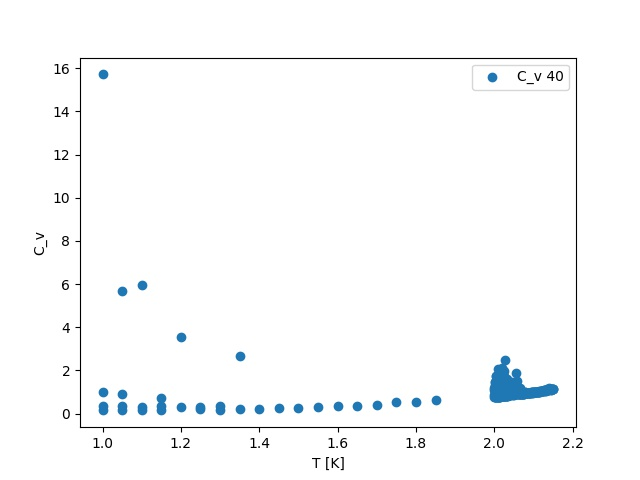
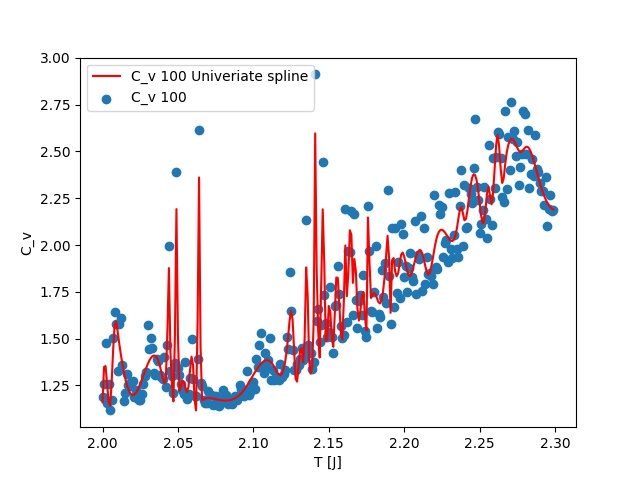
Made data set

diff --git a/Project4/CodeBase/tcfind.py b/Project4/CodeBase/tcfind.py
@@ -8,7 +8,6 @@ xi40 = []
 t = []
 dataL40.readline()
 for line in dataL40:
-        print(line)
         x1 = float(line.split()[0])
         x2 = float(line.split()[1])
         x3 = float(line.split()[2])
@@ -17,10 +16,11 @@ for line in dataL40:
         t.append(x3)
 dataL40.close()
 
-"""
+
 dataL60 = open("MCL60.txt", "r")
 cv60=[]
 xi60 = []
+t6 = []
 
 
 for line in dataL60:
@@ -29,14 +29,14 @@ for line in dataL60:
         x3 = float(line.split()[2])
         cv60.append(x1)
         xi60.append(x2)
+        t6.append(x3)
 dataL60.close()
-
 
 
 dataL80 = open("MCL80.txt", "r")
 cv80=[]
 xi80 = []
-
+t8 = []
 
 for line in dataL80:
         x1 = float(line.split()[0])
@@ -44,6 +44,7 @@ for line in dataL80:
         x3 = float(line.split()[2])
         cv80.append(x1)
         xi80.append(x2)
+        t8.append(x3)
 dataL80.close()
 
 
@@ -51,6 +52,7 @@ dataL80.close()
 dataL100 = open("MCL100.txt", "r")
 cv100=[]
 xi100 = []
+t1 = []
 
 
 for line in dataL100:
@@ -59,46 +61,90 @@ for line in dataL100:
         x3 = float(line.split()[2])
         cv100.append(x1)
         xi100.append(x2)
+        t1.append(x3)
 dataL100.close()
+
+t = np.asarray(t)
+cv40 = np.asarray(cv40)
+
+#Cv40
+tindex = np.argsort(t)
+cv40 = cv40[tindex]
+t = t[tindex]
+
+spl40 = UnivariateSpline(t, cv40)
+spl40.set_smoothing_factor(0.65)
+
+#Cv60
+t6 = np.asarray(t6)
+cv60 = np.asarray(cv60)
+t6index = np.argsort(t6)
+cv60 = cv60[t6index]
+t6 = t6[t6index]
+
+spl60 = UnivariateSpline(t6, cv60)
+spl60.set_smoothing_factor(2)
+
+#Cv80
+t8 = np.asarray(t8)
+cv80 = np.asarray(cv80)
+t8index = np.argsort(t8)
+cv80 = cv80[t8index]
+t8 = t8[t8index]
+
+spl80 = UnivariateSpline(t8, cv80)
+spl80.set_smoothing_factor(5)
+
+#Cv100
+t1 = np.asarray(t1)
+cv100 = np.asarray(cv100)
+t1index = np.argsort(t1)
+cv100 = cv100[t1index]
+t1 = t1[t1index]
+
+spl100 = UnivariateSpline(t1, cv100)
+spl100.set_smoothing_factor(4)
 """
 plt.scatter(t, cv40, label="C_v 40")
-#spl40 = UnivariateSpline(t, cv40)
-#spl40.set_smoothing_factor(0.5)
-#plt.plot(t,spl40,label="C_v 40 spline")
-"""
-plt.scatter(t, cv60, label="C_v 60")
-spl60 = UnivariateSpline(t, cv60)
-spl60.set_smoothing_factor(0.5)
-plt.plot(t,spl60,label="C_v 60 spline")
+plt.plot(t,spl40(t),"r",label="C_v 40 Univeriate spline")
 
-plt.scatter(t, cv80, label="C_v 80")
-spl80 = UnivariateSpline(t, cv80)
-spl80.set_smoothing_factor(0.5)
-plt.plot(t,spl80,label="C_v 80 spline")
 
-plt.scatter(t, cv100, label="C_v 100")
-spl100 = UnivariateSpline(t, cv100)
-spl100.set_smoothing_factor(0.5)
-plt.plot(t,spl100,label="C_v 100 spline")
+plt.scatter(t6, cv60, label="C_v 60")
+plt.plot(t6,spl60(t6),"r",label="C_v 60 Univeriate spline")
+
+
+plt.scatter(t8, cv80, label="C_v 80")
+plt.plot(t8,spl80(t8),"r",label="C_v 80 Univeriate spline")
 """
+
+plt.scatter(t1, cv100, label="C_v 100")
+plt.plot(t1,spl100(t1),"r",label="C_v 100 Univeriate spline")
+
+
 plt.legend()
-plt.xlabel("T [K]")
+plt.xlabel("T [J]")
 plt.ylabel("C_v")
 plt.savefig("Cv_of_T.jpeg")
 plt.show()
 
-t = np.asarray(t)
-#cv40max = np.max( spl40 )
+
+
+
 """
+Interpolate to find vals
+"""
+
+
+"""
+cv40max = np.max( spl40 )
 cv60max = np.max( spl60 )
 cv80max = np.max( spl80 )
 cv100max = np.max( spl100 )
-"""
+
 
 t40index = int(np.where(cv40max == cv40 )[0])
 t40max = t[t40index]
 
-"""
 t60index = int(np.where(cv60max == cv60 )[0])
 t60max = t[t60index]
 
@@ -108,6 +154,17 @@ t80max = t[t80index]
 t100index = int(np.where(cv100max == cv100 )[0])
 t100max = t[t100index]
 
-cvinter = np.array([cv40max, cv60max, cv80max, cv100max])
-tinter = np.array([t40max, t60max, t80max, t100max])
+
+a46 = (t40max - t60max)/(40**(-1) - 60**(-1))
+a68 = (t60max - t80max)/(60**(-1) - 80**(-1))
+a810 = (t80max - t100max)/(80**(-1) - 100**(-1))
+amean = (a46 + a68 + a810)/3
+
+tcinf_40 = t40max - amean*40**(-1)
+tcinf_60 = t60max - amean*60**(-1)
+tcinf_80 = t80max - amean*80**(-1)
+tcinf_100 = t100max - amean*100**(-1)
+
+Tcin_mean = (tcinf_40 + tcinf_60 + tcinf_80 + tcinf_100)/4
+print(Tcin_mean)
 """

diff --git a/Project4/CodeBase/main_g.cpp b/Project4/CodeBase/main_g.cpp
@@ -21,8 +21,8 @@ int main(int argc, char* argv[])
 {
 
    int mcs = 1e5;
-   double init_temp = 2;
-   double final_temp = 2.3;
+   double init_temp = 2.1;
+   double final_temp = 2.4;
    double t_step = 0.001;
    int param = 0;
 
@@ -33,10 +33,10 @@ int main(int argc, char* argv[])
    int iter = int( (final_temp - init_temp) / t_step );
    double start = omp_get_wtime();
 
-   #pragma omp parallel for
+
    for(int L = 40; L < 101; L += 20){
       int k = 0;
-
+     #pragma omp parallel for
      for(int i = 0; i <= iter; i++){
        double i_temp = (double) init_temp + i*t_step;
        solver Mcint1;
